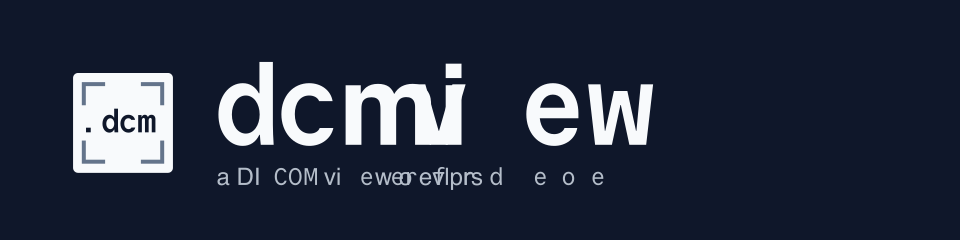
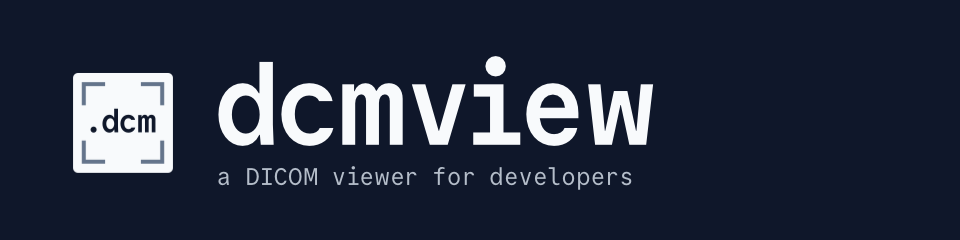
fix(vscode): restore Marketplace wordmark
Use an explicit raw GitHub URL for the extension README wordmark so vsce does not rewrite it to a missing repo-root media path. Replace the corrupted VS Code media copy with the verified root wordmark asset for packaged consistency.

diff --git a/vscode/README.md b/vscode/README.md
@@ -1,4 +1,4 @@
-![dcmview](media/dcmview-wordmark-darkmode-opaque-background.png)
+![dcmview](https://raw.githubusercontent.com/beatrice-b-m/dcmview/main/dcmview-wordmark-darkmode-opaque-background.png)
 
 # dcmview
 